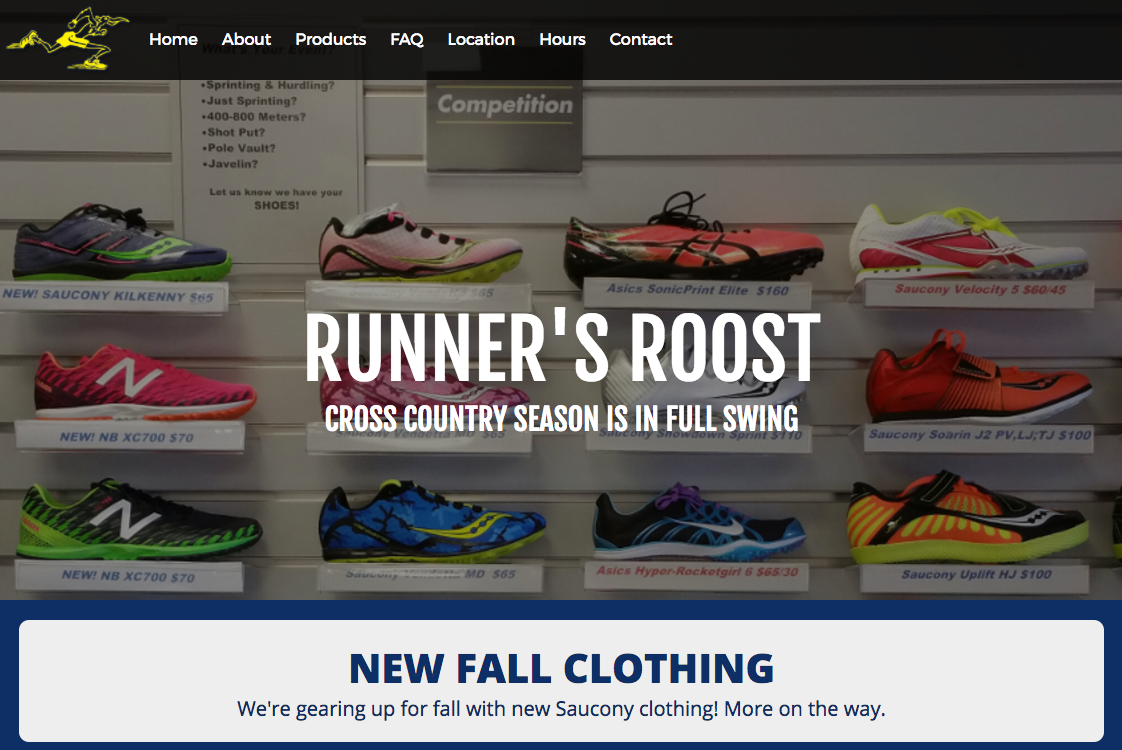
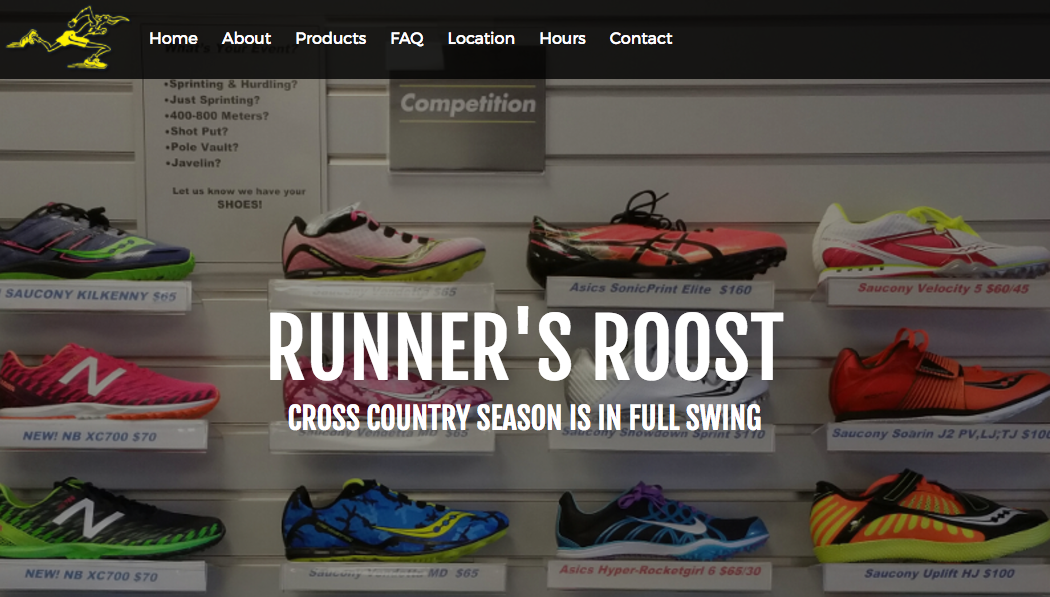
tweak styles

diff --git a/index.html b/index.html
@@ -37,42 +37,60 @@
         </header>
         
         <section class="df-section df-section--portfolio">
-            <div class="section group">
-                <div class="col span_6_of_12">
-                    <div class="portfolio__item">
-                        <div class="portfolio__image-container">
+            <div class="df-content-narrow">
+                <div class="section group">
+                    <div class="col span_6_of_12">
+                        <div class="portfolio__item">
                             <img class="portfolio__web-image" src="assets/img/portfolio/tmp.png">
+                            <a class="portfolio__item-link" href="http://www.themusicplayground.com" target="_blank">
+                                <h2 class="portfolio__item-title">The Music Playground: Official Website</h2>
+                            </a>
+                            <p class="portfolio__item-description">
+                                The Music Playground is a full service original music production studio based in
+                                Manhattan. Their website is comprised of several video galleries and reel players,
+                                and was built from scratch using Javascript and PHP.
+                            </p>
                         </div>
-                        <a class="portfolio__item-link" href="http://www.themusicplayground.com" target="_blank">
-                            <h2 class="portfolio__item-title">The Music Playground: Official Website</h2>
-                        </a>
-                        <p class="portfolio__item-description">
-                            The design for this website was inspired by the 
-                        </p>
-                    </div>
-                    <div class="portfolio__item">
-                        <div class="portfolio__image-container">
+                        <div class="portfolio__item">
                             <img class="portfolio__phone-image" src="assets/img/portfolio/orderup.jpeg">
+                            <a class="portfolio__item-link" href="https://itunes.apple.com/us/app/the-diner-orderup-music-search/id984731536?mt=8" target="_blank">
+                                <h2 class="portfolio__item-title">The Diner: Order Up™ Music Search</h2>
+                            </a>
+                            <p class="portfolio__item-description">
+                                The Diner is an original music library that specializes in quick "music searches",
+                                which make finding music for your project very painless and efficient. This iOs
+                                app allows you to record an audio file where you explain what type of music you
+                                need, which is then sent directly to The Diner. They listen to the request, and
+                                email you with an extensive list of handpicked tracks. Built using Swift 2.
+                            </p>
                         </div>
-                        <a class="portfolio__item-link" href="http://www.themusicplayground.com" target="_blank">
-                            <h2 class="portfolio__item-title">The Diner: Order Up™ Music Search</h2>
-                        </a>
-                        <p class="portfolio__item-description">
-                            The design for this website was inspired by the 
-                        </p>
                     </div>
-                </div>
-                <div class="col span_6_of_12">
-                    <div class="portfolio__item">
-                        <div class="portfolio__image-container">
+                    <div class="col span_6_of_12">
+                        <div class="portfolio__item">
                             <img class="portfolio__web-image" src="assets/img/portfolio/runnersroost.png">
+                            <a class="portfolio__item-link" href="http://www.runnersroostct.com" target="_blank">
+                                <h2 class="portfolio__item-title">Runner's Roost CT: Official Website</h2>
+                            </a>
+                            <p class="portfolio__item-description">
+                                Runner's Roost is a mom-and-pop run-specialty store located in Darien, CT.
+                                Their simple store required a simple site, which is a single page built with
+                                nothing but HTML, CSS, and (very small amount of) Javascript.
+                            </p>
                         </div>
-                        <a class="portfolio__item-link" href="http://www.themusicplayground.com" target="_blank">
-                            <h2 class="portfolio__item-title">Runner's Roost CT: Official Website</h2>
-                        </a>
-                        <p class="portfolio__item-description">
-                            The design for this website was inspired by the 
-                        </p>
+                        <div class="portfolio__item">
+                            <img class="portfolio__web-image" src="assets/img/portfolio/premiere.png">
+                            <a class="portfolio__item-link" href="https://exchange.adobe.com/addons/products/16079#.WcA3QNOGN24" target="_blank">
+                                <h2 class="portfolio__item-title">The Diner: Music Search</h2>
+                            </a>
+                            <p class="portfolio__item-description">
+                                This is an Adobe Premiere Pro extension custom built for The Diner. The
+                                extension allows the user to search, audition, and download/import any
+                                track from The Diner's extensive library, all directly within a Premiere
+                                Pro project. It's built off of Adobe's CEP (common extensibility platform),
+                                and relies on NodeJS to allow communication between Premiere and the user's
+                                computer.
+                            </p>
+                        </div>
                     </div>
                 </div>
             </div>

diff --git a/assets/css/style.css b/assets/css/style.css
@@ -13,9 +13,10 @@ body {
 
 .header {
     position: relative;
-    height: 300px;
+    height: 500px;
     background-color: #152e28;
     background-image: url("https://www.transparenttextures.com/patterns/cubes.png");
+    background-attachment: fixed;
     text-align: center;
 }
 
@@ -42,7 +43,7 @@ body {
     color: #eee;
     margin: 0;
     font-size: 60px;
-    margin-top: 75px;
+    margin-top: 175px;
     z-index: 0;
 }
 
@@ -77,6 +78,15 @@ body {
     color: white;
 }
 
+.main-content {
+    max-width: 1000px;
+}
+
+.df-content-narrow {
+    max-width: 800px;
+    margin: auto;
+}
+
 .df-section {
     padding: 20px;
 }
@@ -89,9 +99,6 @@ body {
     background-color: #fafafa;
     padding: 20px;
     margin-bottom: 20px;
-}
-
-.portfolio__image-container {
     text-align: center;
 }
 
@@ -105,12 +112,16 @@ body {
 }
 
 .portfolio__item-title {
-    display: inline-block;
-    margin: 0;
+    text-align: left;
+    font-size: 20px;
 }
 
 .portfolio__item-link {
     color: black;
+}
+
+.portfolio__item-description {
+    text-align: left;
 }
 
 .experience__header {
